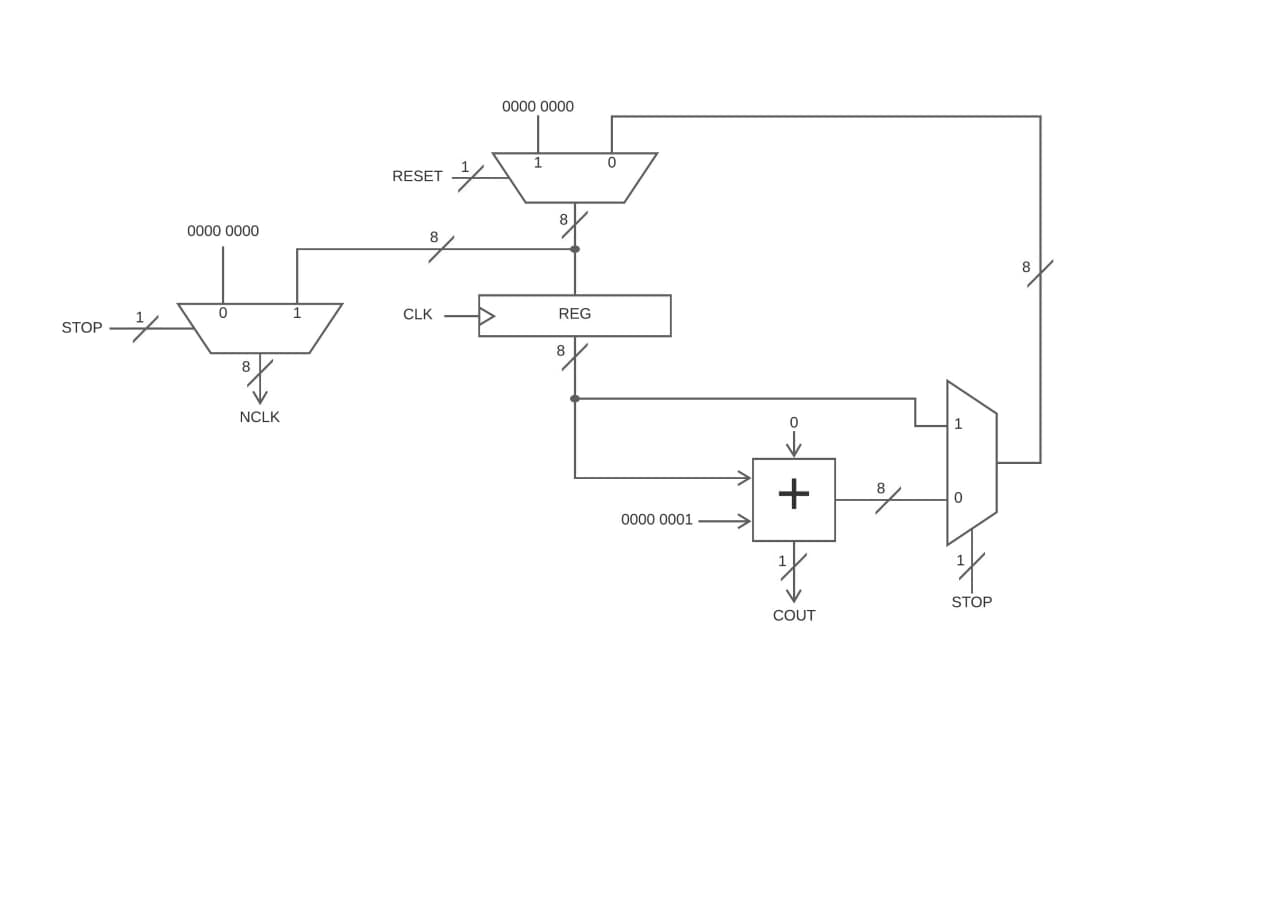
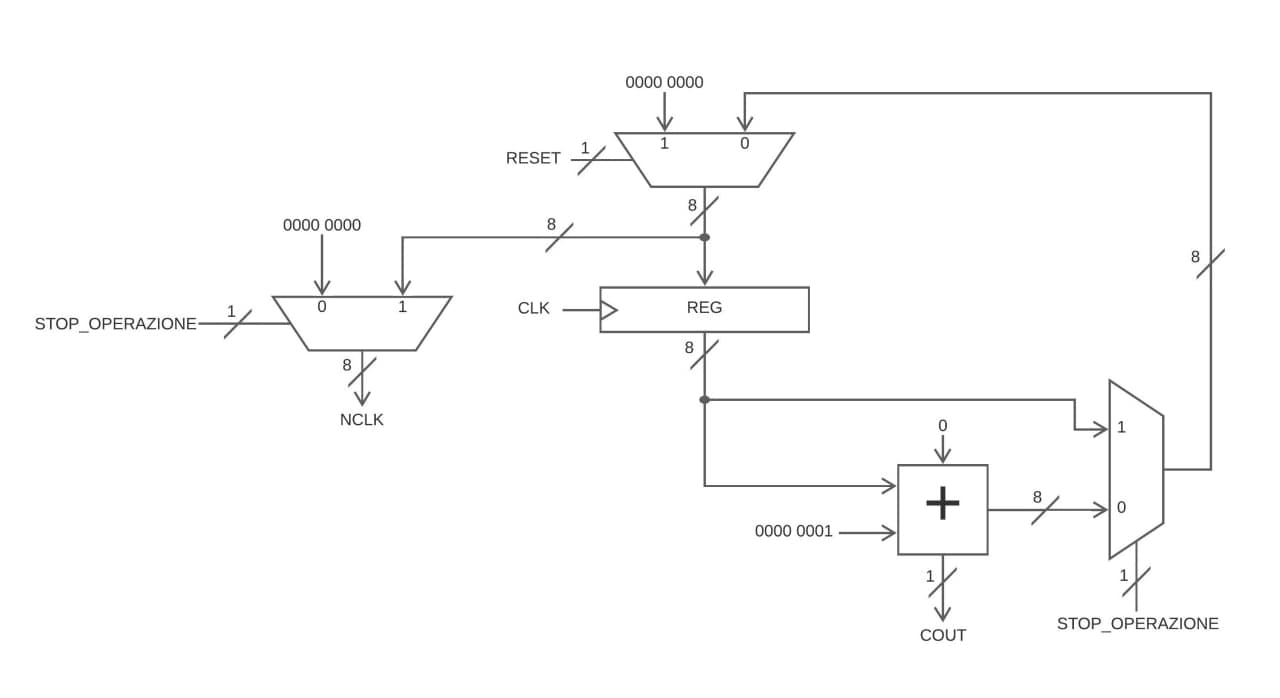
Aggiornato report

diff --git a/docs/report.md b/docs/report.md
@@ -145,7 +145,7 @@ La macchina rimane allo stato *Acido* fintantochè non si presenta `NEUTRO = 1` 
 
 ##### Uscite
 
-Quando la macchina rimane nello stato *Acido* lancia i segnali `VALVOLA_BASICA = 1, TIPO_PH = 0`, mentre se passa allo stato di *Neutro* lancia i segnali di `FINE_OPERAZIONE = 1, STOP_OPERAZIONE = 1`.
+Quando la macchina rimane nello stato *Acido* lancia i segnali `VALVOLA_BASICA = 1, TIPO_PH = 0`, nel momento in cui passa allo stato di *Neutro* lancia i segnali di `FINE_OPERAZIONE = 1, STOP_OPERAZIONE = 1`.
 
 Invece quando la macchina passa allo stato di *Reset* restituisce il segnale `RESET = 1`.
 
@@ -163,7 +163,7 @@ La macchina rimane allo stato *Basico* fintantochè non si presenta `NEUTRO = 1`
 
 ##### Uscite
 
-Quando la macchina rimane nello stato *Bisico* lancia i segnali di `VALVOLA_ACIDA = 1, TIPO_PH = 1`, mentre se passa allo stato di *Neutro* lancia i segnali di `FINE_OPERAZIONE = 1, STOP_OPERAZIONE = 1`.
+Quando la macchina rimane nello stato *Bisico* lancia i segnali di `VALVOLA_ACIDA = 1, TIPO_PH = 1`, nel momento in cui passa allo stato di *Neutro* lancia i segnali di `FINE_OPERAZIONE = 1, STOP_OPERAZIONE = 1`.
 
 Invece quando la macchina passa allo stato di *Reset* restituisce il segnale `RESET = 1`.
 
@@ -192,16 +192,118 @@ Fintantoché si rimane nello stato di *Neutro* le uscite sono `FINE_OPERAZIONE =
 
 <!-- SCHEMA FSM-->
 
-<!--
-
 ## Elaboratore (DATA-PATH)
 
 Il DATA-PATH è strutturato in 2 parti:
 
-1. Contatore: effetua il conteggio dei cicli di clock che ci vogliono per completare l'operazione;
-1. Elaboratore: porta il *pH* a un livello di neutralità oppure stampa l'errore se la codifica inserita non soddisfa i requisiti.
+1. *Contatore*: effetua il conteggio dei cicli di clock che servono per completare l'operazione;
 
-<!-- Inserisci Datapath -D->
+1. *Elaboratore*: porta il *pH* a un livello di neutralità oppure stampa l'errore se la codifica inserita non soddisfa i requisiti.
+
+### Contatore
+
+#### Struttura
+
+Il contatore è costituito da:
+
+- `1` Registro a 8 bit.
+
+- `3` Multiplexer a 2 ingressi da 8 bit.
+
+- `1` Sommatore a 8 bit.
+
+#### Utilizzo
+
+Il sommatore inizia il conto una volta preso in input il *pH*, e si riazzera ogni volta che `RESET = 1`. Dopo essere stato preso in input il *pH* viene salvato nel registro la cui uscita è collegata a un sommatore che incrementa il valore di `1` e un multiplexer che in base al segnale di `STOP_OPERAZIONE` decide se prendere il valore aggiornato oppure quello uscito dal registro.
+
+L'uscita del contatore è collocata fra il primo multiplexer che riazzera i valori e l'ingresso del registro; essa è filtrata da un multiplexer che in base al segnale di `STOP_OPERAZIONE` sceglie se stampare il valore ottenuto dal conteggio (`NCLK`) oppure `0`.
+
+![Counter](./img/Counter.jpg)
+
+### Elaboratore
+
+L'elaboratore è suddiviso a sua volta in quattro parti:
+
+  1. Main.
+  2. Error.
+  3. Modifier.
+  4. Neutral.
+
+#### Error
+
+Error è costituito da `1` Maggiore a 8 bit.
+
+Prende in input il valore del *pH* inserito dall'utente e controlla se esso è maggiore di `14`, se si allora stampa `1` altrimenti `0`.
+
+![Error](./img/Error.jpg)
+
+#### Modifier
+
+Modifier è composto da:
+
+- `1` Sommatore a 8 bit.
+
+- `1` Sottrattore a 8 bit.
+
+- `1` Multiplexer a 2 ingressi da 8 bit.
+
+Prende in input il valore del registro, somma ad esso *0.50* e sottrae *0.25*, dopodiché in base al *pH* sceglie quale valore prendere e portare in uscita.
+
+![Modifier](./img/Modifier.jpg)
+
+#### Neutral
+
+Neutral è composto da:
+
+- `1` Minore da 8 bit.
+
+- `1` Maggiore da 8 bit.
+
+- `1` NOR a 2 inressi da 1 bit.
+
+Prende in input il valore del multiplexer che seleziona fra il risultato del modifier e il registro, dopodiché controlla se esso è compreso nell'intervallo `[7, 8]`, se lo è allora restituisce 1 sennò restituisce `0`.
+
+![Neutral](./img/Neutral.jpg)
+
+#### Main
+
+Il Main è l'unione di tutti gli altri componenti con l'aggiunta di:
+
+- `2` Registro a 8 bit.
+
+- `4` Multiplexer a 2 ingressi a 8 bit.
+
+Il circuito prende in input il valore del *pH* solo quando abbiamo la combinazione `START_OPERAZIONE = 1` e `RESET = 0`, mentre se abbiamo `INIZIO_OPERAZIONE = 0` e `RESET = 0` prende il valore risultante dal multiplexer che seleziona fra il valore del registro e il risultato del Modifier, se invece abbiamo `RESET = 1` il circuito si resetta.
+
+L'uscita del circuito è collocata tra l'uscita del multiplexer del reset e l'ingresso del registro, essa è filtrata da un multiplexer che in base al valore di `STOP_OPERAZIONE` se vale `0` l'uscita è `0`, invece se vale `1` l'uscita è quella del multiplexer del reset.
+
+![DATA-PATH](./img/DATA-PATH.jpg)
+
+
+
+
+
+
+
+
+
+
+
+<!-- SCHEMA NEUTRAL -->
+
+<!--
+
+
+
+
+
+
+
+
+
+
+
+<!-- Inserisci Datapath --S>
 
 ## Statistiche del circuito
 

diff --git a/docs/scaletta.md b/docs/scaletta.md
@@ -16,16 +16,16 @@
 
 - [ ] Macchina a stati finiti (FSM)
 - [x]     Stati
-- [ ]     Transizioni
+- [~]     Transizioni
 - [ ]     Schema
 
 ## Elaboratore (DATA-PATH)
 
-- [ ] Elaboratore (DATA-PATH)
-- [ ]     Componenti (per ogni)
-- [ ]         Utilizzo
-- [ ]         Schema
-- [ ]     Schema
+- [~] Elaboratore (DATA-PATH)
+- [~]     Componenti (per ogni)
+- [~]         Utilizzo
+- [~]         Schema
+- [~]     Schema
 
 ## Alcune simulazioni
 
